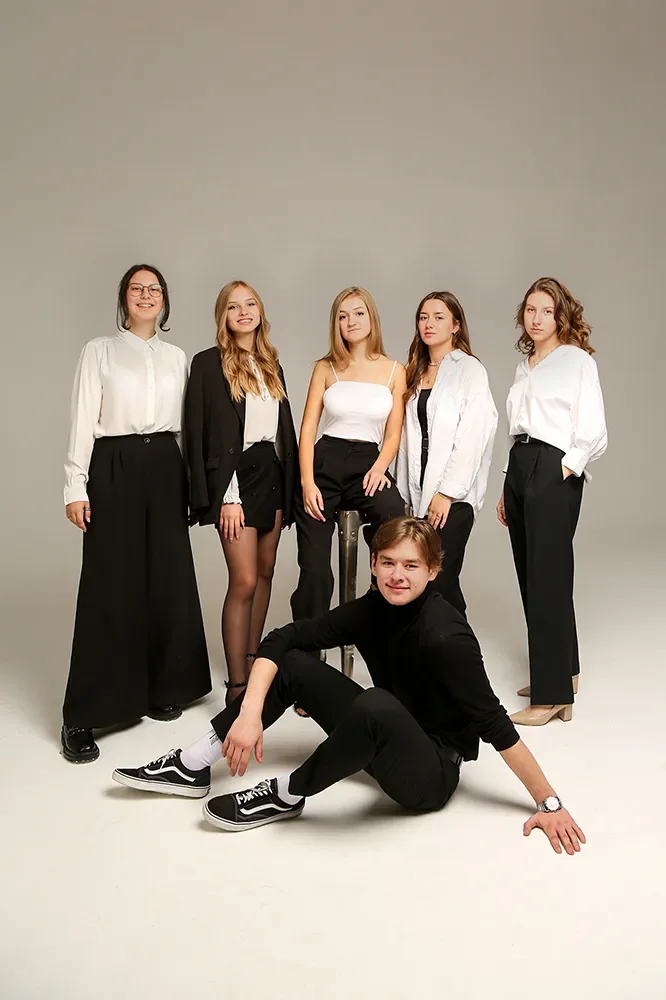
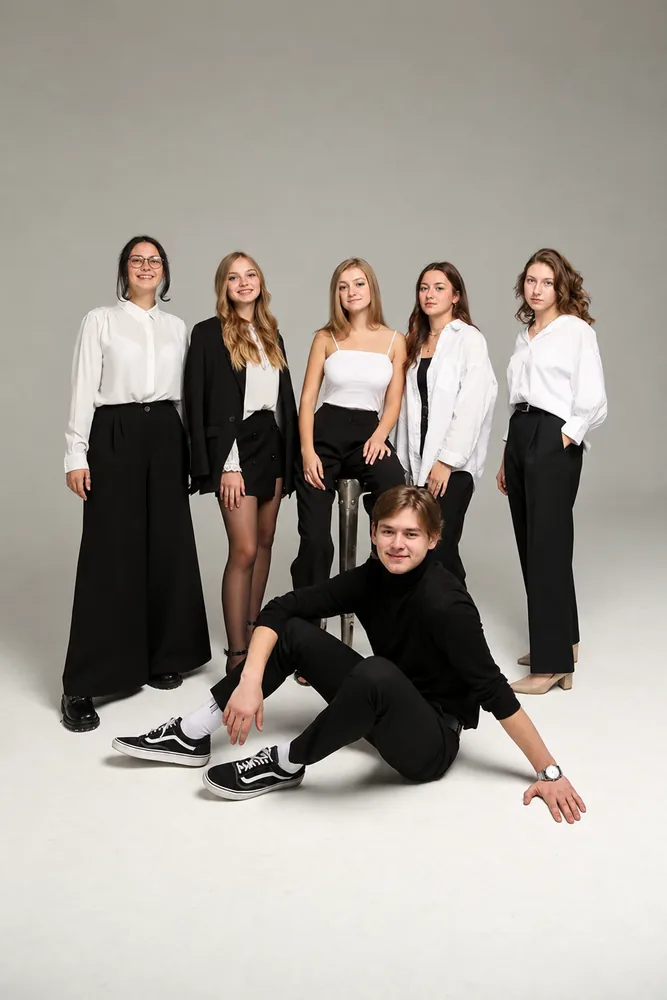
Use corrected school group portraits

Changed region(s): [[0.0, 0.217, 0.9309, 0.868], [0.961, 0.992, 1.0, 1.0]]

diff --git a/src/components/school/SchoolStories.tsx b/src/components/school/SchoolStories.tsx
@@ -7,7 +7,7 @@ type SchoolStoryImage = {
   kind: "portrait" | "group" | "life";
 };
 
-const SCHOOL_STORY_ASSET_VERSION = "2026-09-11-3";
+const SCHOOL_STORY_ASSET_VERSION = "2026-09-11-4";
 
 const schoolStoryImages: SchoolStoryImage[] = [
   { slug: "portrait-girl-glasses", alt: "Портрет выпускницы в светлом образе", kind: "portrait" },
